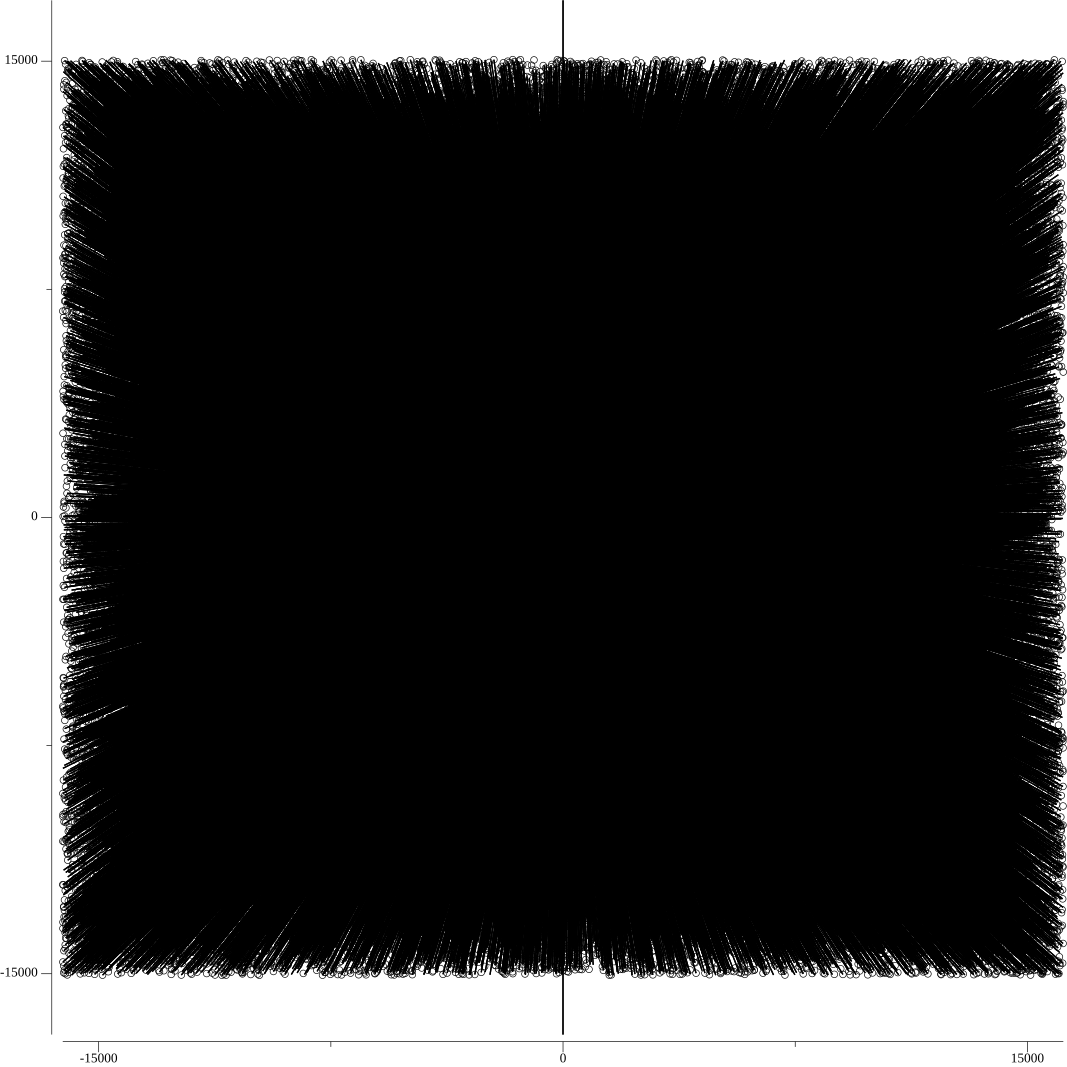
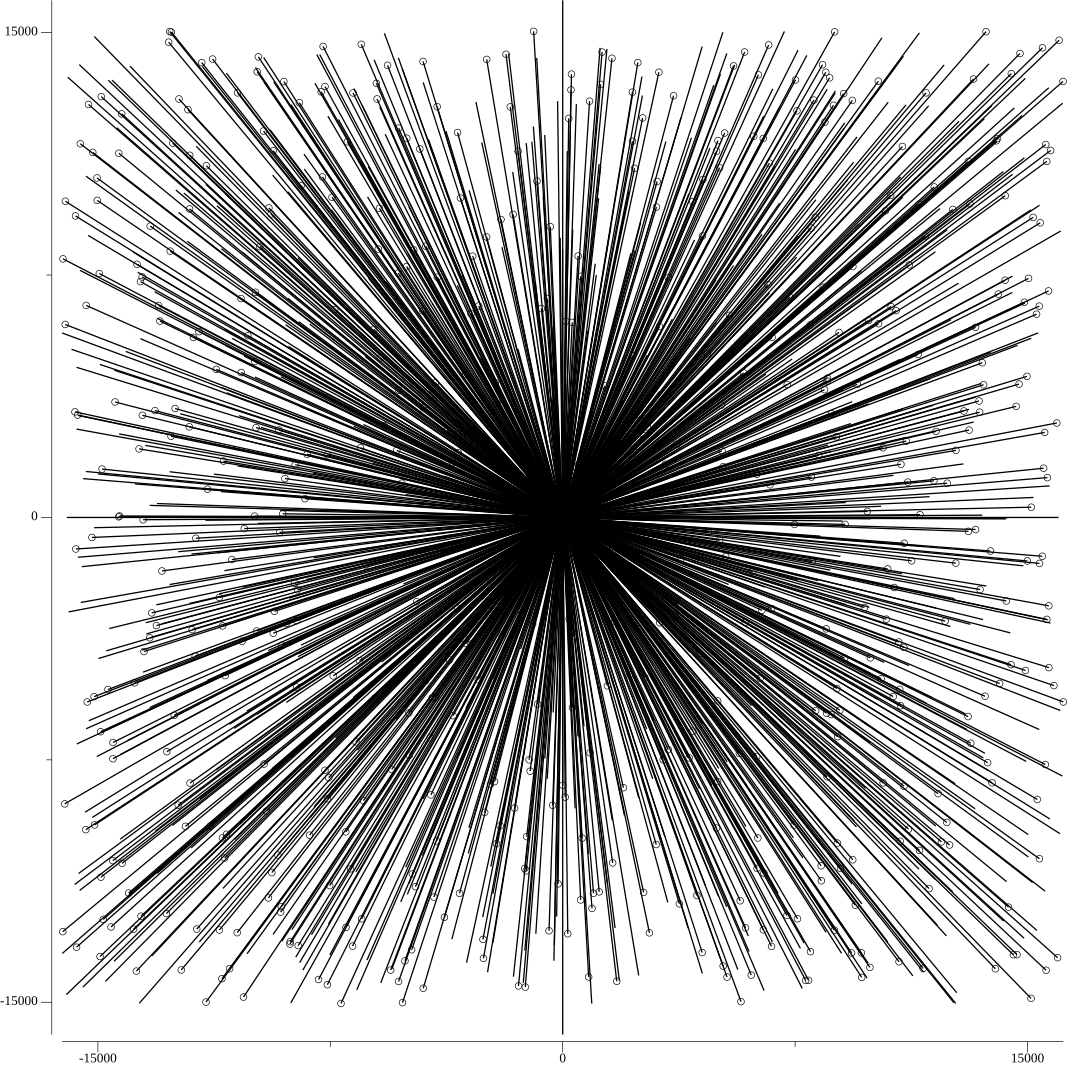
456 progress

diff --git a/ec/p4560_ii.go b/ec/p4560_ii.go
@@ -2,7 +2,6 @@ package eulerchallenge
 
 import (
 	"fmt"
-	"math"
 
 	"github.com/leep-frog/command"
 	"github.com/leep-frog/euler_challenge/fraction"
@@ -184,6 +183,8 @@ type dn struct {
 	quad     int
 	id       int
 	opposite *dn
+
+	good1, good2 int
 }
 
 func (d *dn) String() string {
@@ -238,9 +239,9 @@ func dnzo(pts []*point.Point[int]) int {
 		q := p.Quadrant()
 		oq := (q + 2) % 4
 		if m[q][f.String()] == nil {
-			reg := &dn{f, 0, 0, q, dnID, nil}
+			reg := &dn{f, 0, 0, q, dnID, nil, 0, 0}
 			dnID++
-			op := &dn{f, 0, 0, oq, dnID, reg}
+			op := &dn{f, 0, 0, oq, dnID, reg, 0, 0}
 			dnID++
 			reg.opposite = op
 			m[q][f.String()] = reg
@@ -266,8 +267,11 @@ func dnzo(pts []*point.Point[int]) int {
 		dn.cum = sum
 	}
 
+	qk(dns)
+	plot456(pts, nil)
+	return 1
+
 	max := dns[len(dns)-1].cum
-	fmt.Println("LDN", len(dns))
 
 	// Now do every pair
 	triCnt := 0
@@ -277,7 +281,6 @@ func dnzo(pts []*point.Point[int]) int {
 		}
 		if dn1.f.N == 0 && dn1.quad > 0 {
 			// TODO: Remove this check (taken care of by quad)
-			fmt.Println("OOPS", i)
 			break
 		}
 		if dn1.cnt == 0 {
@@ -304,40 +307,235 @@ func dnzo(pts []*point.Point[int]) int {
 			}
 			//second += op1.cnt
 
-			//fmt.Println("TCP", dn1, dn2, o1, o2, second, first)
-
-			/*if second-first <= 0 {
-				fmt.Println("NOOp", second, first, max)
-			}*/
 			v := dn1.cnt * dn2.cnt * d3cnt
 
 			triCnt += v
+			qk(dns)
+			plot456(pts, dns)
+			return 1
+			goto AHA
 		}
 	}
+AHA:
 
+	//
+	return triCnt
+}
+
+func plot456(pts []*point.Point[int], dns []*dn) {
 	p := point.NewPlot()
 	if err := p.Add(point.Points[int](pts)); err != nil {
 		panic(fmt.Sprintf("NO: %V", err))
 	}
 
-	for _, dn := range dns {
+	for _, pt := range pts {
+		p.Add(point.NewLineSegment(point.Origin[int](), pt))
+		p.Add(point.NewLineSegment(point.Origin[int](), point.New(-pt.X, -pt.Y)))
+	}
+
+	p.Add(point.Axes(-16000, 16000))
+
+	/*for _, dn := range dns {
 		/*x, y := 1, 1
 		if dn.quad == 0 || dn.quad == 3 {
 			x = -1
 		}
 		if dn.quad == 2 || dn.quad == 3 {
 			y = -1
-		}*/
+		}* /
 		p.Add(point.NewLineSegment(point.Origin[int](), point.New(dn.f.D, dn.f.N)))
 		p.Add(point.NewLineSegment(point.Origin[int](), point.New(-dn.f.D, -dn.f.N)))
-	}
+	}*/
 
 	//p.Add(point.Axes(15000, 15000))
-	p.Save(800, 800, "456.png")
+	if len(pts) < 40 {
+		fmt.Println("PLOTTING")
+		p.Save(800, 800, "456.png")
+	}
+}
 
-	fmt.Println("DNZO", triCnt, math.MaxInt)
-	//
-	return triCnt
+func qk(dns []*dn) {
+	k, bs, cs := 0, 0, 0
+	var firstQ2 *dn
+	for _, d := range dns {
+		if d.quad < 2 {
+			bs += d.cnt
+		} else {
+			if firstQ2 == nil {
+				firstQ2 = d
+			}
+			cs += d.cnt
+		}
+	}
+
+	for _, b := range dns {
+		if b.quad == 2 {
+			break
+		}
+		k += b.cnt * ((b.opposite.cum - b.opposite.cnt) - firstQ2.cum + firstQ2.cnt)
+	}
+
+	fmt.Println("START", k, bs, cs)
+	triCnt := 0
+	for i, d := range dns {
+		if i%10000 == 0 {
+			fmt.Println("I", i)
+		}
+		if d.quad > 1 {
+			break
+		}
+		if d.cnt > 0 && d.opposite.cnt == 0 {
+			bs -= d.cnt
+			triCnt += d.cnt * k
+		} else if d.cnt == 0 && d.opposite.cnt > 0 {
+			//fmt.Println("OP", d)
+			// No longer a 'C'
+			k -= d.opposite.cnt * bs // remove triangles
+			cs -= d.opposite.cnt
+
+			// Now a b
+			k += d.opposite.cnt * cs
+			bs += d.opposite.cnt
+			//fmt.Println("M", k, cs, bs)
+			//return
+		} else {
+			bs -= d.cnt
+			k -= d.opposite.cnt * bs // remove triangles
+			cs -= d.opposite.cnt
+
+			triCnt += d.cnt * k
+
+			k += d.opposite.cnt * cs
+			bs += d.opposite.cnt
+		}
+	}
+	fmt.Println("TRICNT", triCnt)
+}
+
+func qk2(dns []*dn) {
+
+	k, bs, cs := 0, 0, 0
+
+	first := dns[0]
+	op1 := first.opposite
+	var inCs bool
+	for _, dn2 := range dns[1:] {
+		if dn2.id == op1.id {
+			inCs = true
+			bs += dn2.cnt
+			continue
+		}
+
+		// Increment b and c counts
+		if !inCs {
+			bs += dn2.cnt
+		} else {
+			cs += dn2.cnt
+		}
+	}
+
+	var stopIt bool
+	max := dns[len(dns)-1].cum
+	for j := 1; !stopIt && j < len(dns); j++ {
+		dn2 := dns[j]
+		stopIt = dn2.id == op1.id
+		if dn2.cnt == 0 {
+			continue
+		}
+		if stopIt { //&& dn2.quad >= 2 {
+			break
+		}
+
+		op2 := dn2.opposite
+
+		d3cnt := op2.cum - op1.cum - op2.cnt
+		if dn2.quad >= 2 {
+			d3cnt = max - op1.cum
+		}
+		//second += op1.cnt
+
+		//fmt.Println("TCP", dn1, dn2, o1, o2, second, first)
+
+		/*if second-first <= 0 {
+			fmt.Println("NOOp", second, first, max)
+		}*/
+		fmt.Println("HAHA", dn2.cnt*d3cnt)
+		k += dn2.cnt * d3cnt
+	}
+	triCnt := first.cnt * k
+
+	/*collinear := 0
+
+	cur := dns[0]*/
+	/*for _, dn2 := range dns[1:] {
+		if dn2.id == cur.opposite.id {
+			collinear += dn2.cnt
+			break
+		}
+
+		if dn2.quad >= 2 {
+			break
+		}
+
+		if dn2.quad < 2 {
+			bs += dn2.cnt
+		} else {
+			cs += dn2.cnt
+		}
+	}*/
+
+	fmt.Println("init", triCnt, first, k, bs, cs)
+	//return
+
+	poppedCs := 0
+
+	bs += first.opposite.cnt
+	cs -= first.opposite.cnt
+
+	for _, dn1 := range dns[1:] {
+		if dn1.quad >= 2 {
+			break
+		}
+
+		if dn1.cnt > 0 && dn1.opposite.cnt == 0 {
+			triCnt += dn1.cnt * k
+			bs -= dn1.cnt
+			fmt.Println("HELLO")
+			/*k -= dn1.cnt * poppedCs
+			triCnt += dn1.cnt * k
+			bs -= dn1.cnt*/
+		} else if dn1.cnt == 0 && dn1.opposite.cnt > 0 {
+			//poppedCs += dn1.opposite.cnt
+			cs -= dn1.opposite.cnt
+			k -= dn1.opposite.cnt * bs
+
+			bs += dn1.opposite.cnt
+			k += dn1.opposite.cnt * cs
+
+		} else if dn1.cnt > 0 && dn1.opposite.cnt > 0 {
+			panic("not Yet")
+			cs -= dn1.opposite.cnt
+			k -= dn1.opposite.cnt * bs
+
+			k -= dn1.cnt * poppedCs
+			triCnt += dn1.cnt * k
+			bs -= dn1.cnt
+
+			bs += dn1.opposite.cnt
+			k += dn1.opposite.cnt * cs
+		} else {
+			panic("AAAHAHAH")
+		}
+		fmt.Println(triCnt, dn1, k, bs, cs)
+	}
+
+	fmt.Println("QK", triCnt)
+
+	/*for i := 0
+
+	for _, dn2 := range dns {
+
+	}*/
 }
 
 func P4560() *problem {
@@ -351,12 +549,13 @@ func P4560() *problem {
 		}
 		/**/
 
+		//ps = append(generatePoints456(n), point.New(3370, -2510))
 		ps = generatePoints456(n)
 
 		dnzo(ps)
-		b := 0
+		//b := 0
 		//b, _ = brute456(ps)
-		fmt.Println("B", b)
+		//fmt.Println("B", b)
 
 		return
 		for i := 0; ; i++ {
